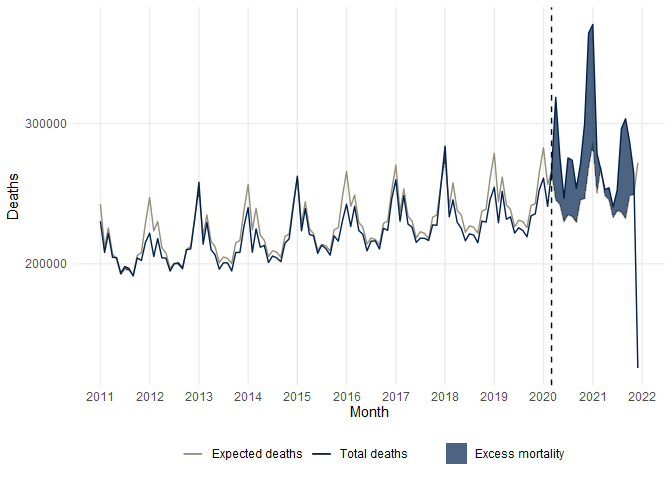
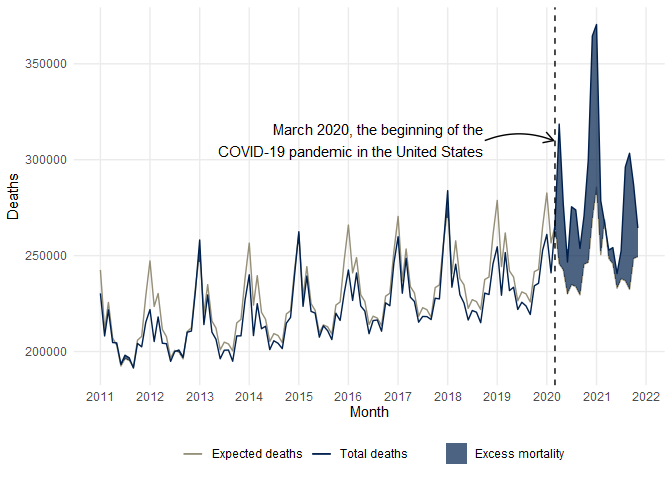
fix reported date range for monthly data, March 2020-November 2021

diff --git a/README.md b/README.md
@@ -8,13 +8,14 @@ COVID-19 United States Excess Deaths by county and month
 This repository contains code and data to estimate **expected deaths**
 and **excess deaths** in the United States in 2020 and 2021 by
 **county** and **month**. This model estimates that there were about
-457779 excess deaths in the United States in 2020 and 304412 in the
-first nine months of 2021, for a total of 762191.
+467602 excess deaths in the United States in 2020 (excluding January and
+February) and 417400 in 2021 (excluding December), for a total of
+885002.
 
 Estimated excess deaths are available at
 [`/blob/main/results/united_states_county_monthly_excess_deaths_estimates.csv`](https://github.com/mymil/covid-19-united-states-county-monthly-excess-deaths/blob/main/results/united_states_county_monthly_excess_deaths_estimates.csv).
 
-#### Nationwide United States Mortality, 2011 through September, 2021
+#### Nationwide United States Mortality, 2011 through 2021 (provisional and partial)
 
 ![](README_files/results%20summary-1.png)<!-- -->
 
